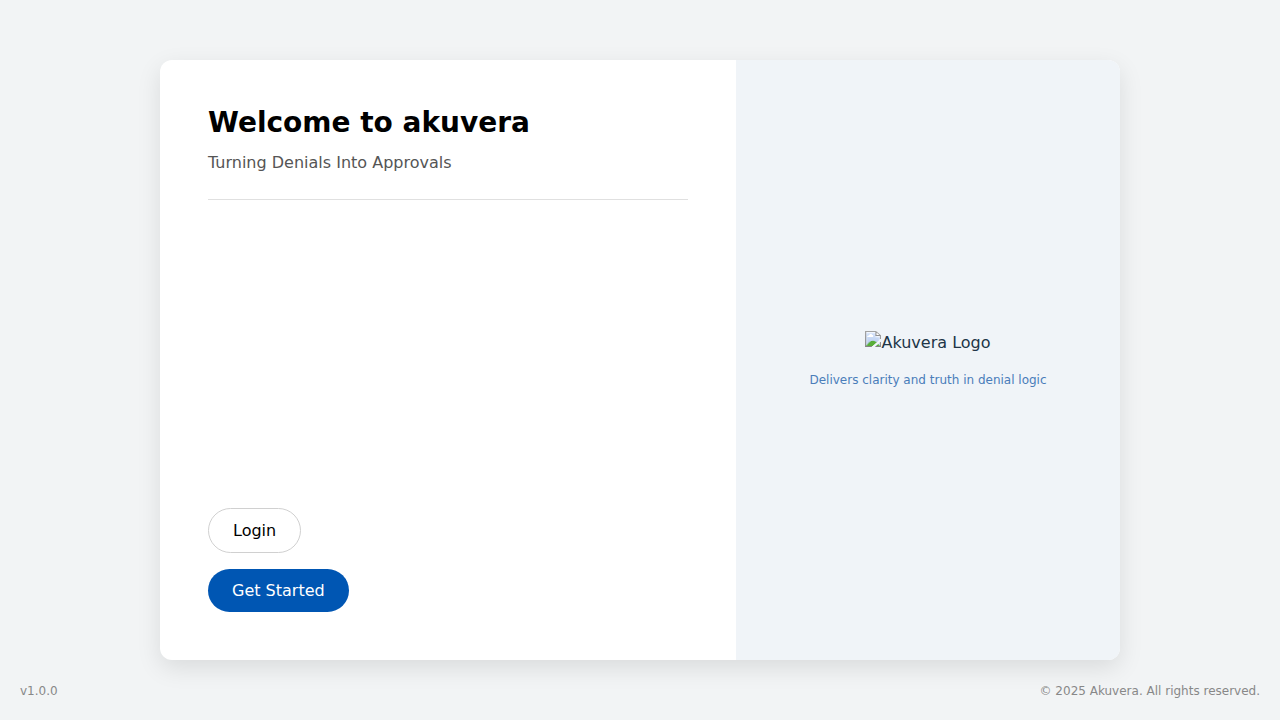
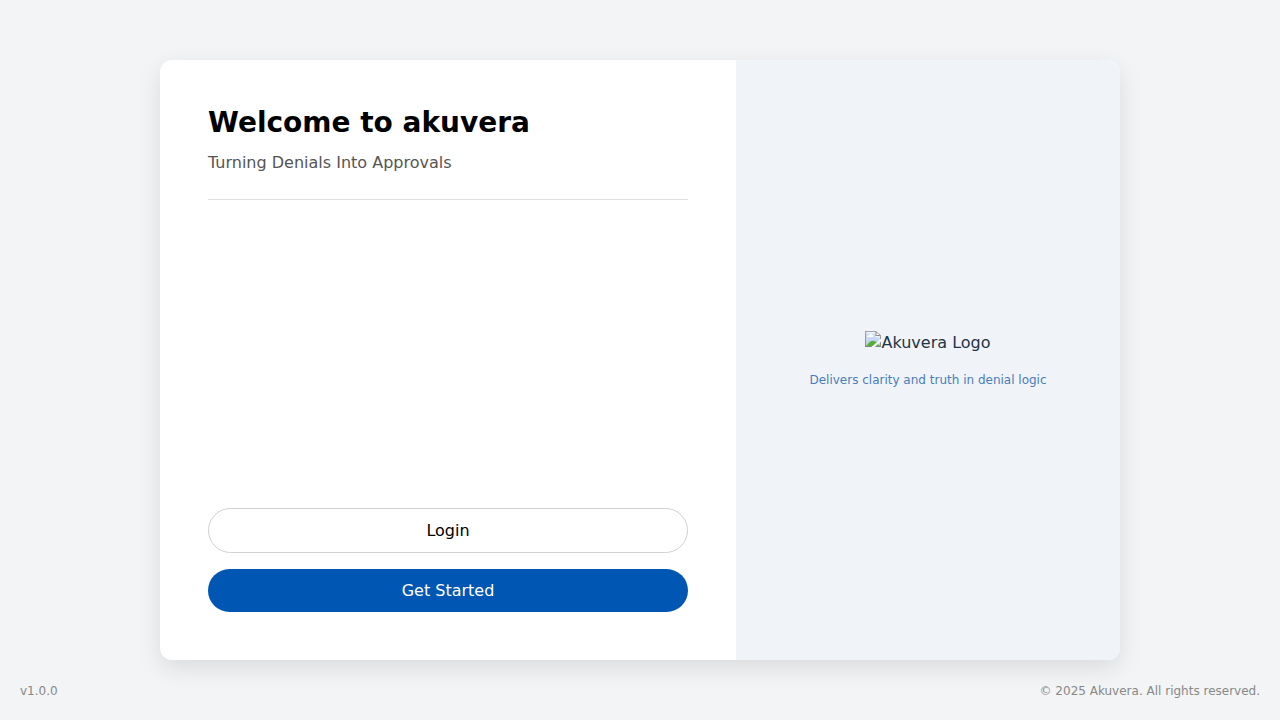
feat: Redesign splash screen with layout adjustments
This commit redesigns the splash screen to match the new design specifications and user feedback.

- The layout is changed to a two-column design.
- The styling of all elements has been updated.
- The footer is positioned at the bottom of the page.
- The splash card height is set to a minimum of 600px.
- Action buttons are aligned to the bottom of the left column.
- Action buttons now span the full width of their container.
- Responsive styles ensure the layout adapts to smaller screens.

Changed region(s): [[0.1875, 0.7333, 0.5625, 0.8556], [0.1875, 0.7333, 0.2188, 0.7639]]

diff --git a/Kuve-AKU-1/src/SplashScreen.css b/Kuve-AKU-1/src/SplashScreen.css
@@ -105,6 +105,9 @@ body, html {
   border: none;
   font-weight: 500;
   transition: background-color 0.3s, border-color 0.3s;
+  width: 100%;
+  box-sizing: border-box; /* Ensures padding is included in the width */
+  text-align: center;
 }
 
 .splash-login-btn {
